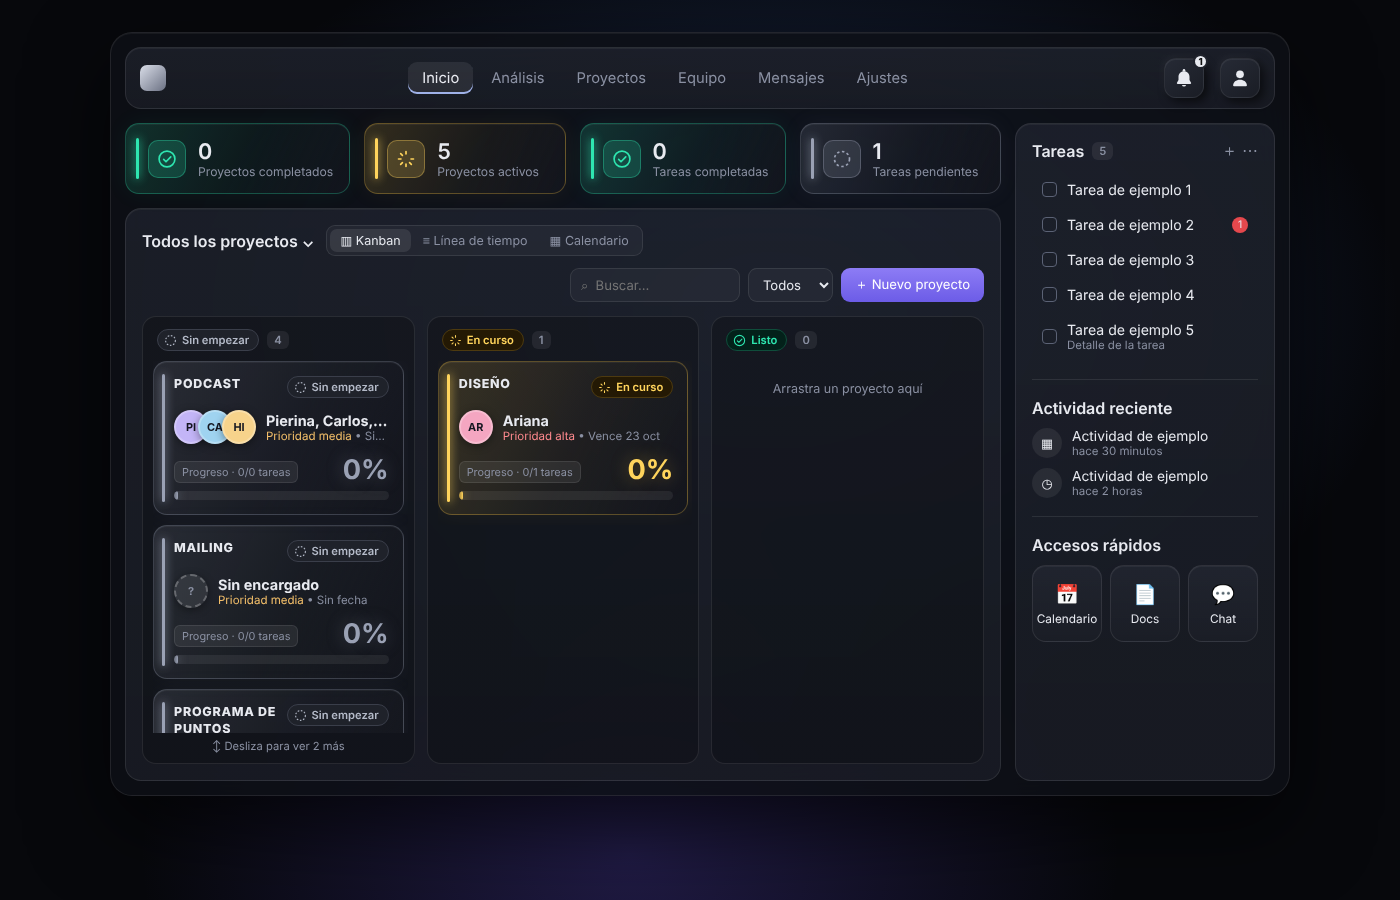
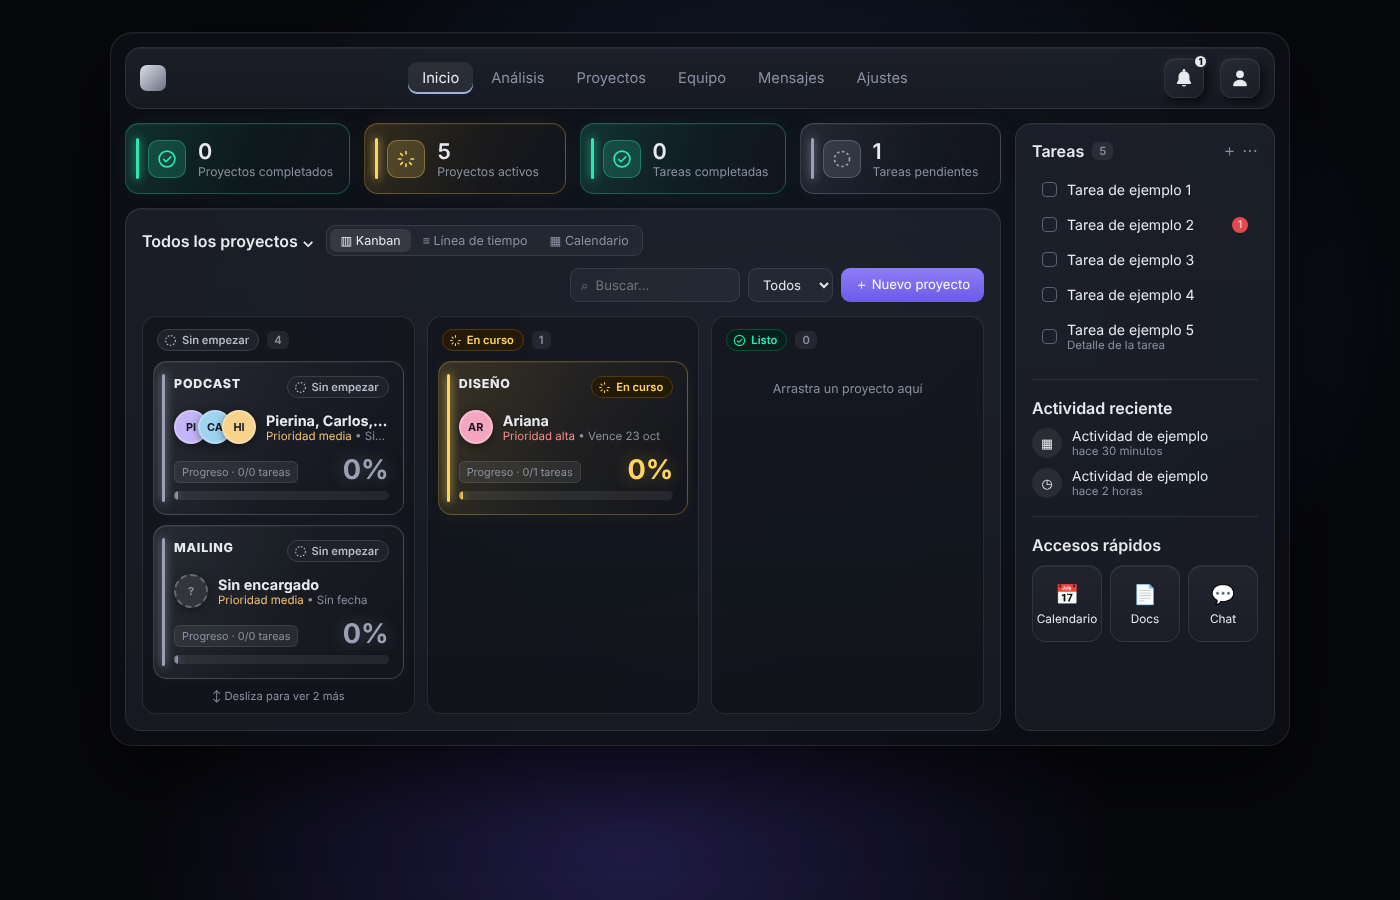
Panel: ajustar alto de columnas a 2 tarjetas
Claude-Session: https://claude.ai/code/session_01L8QtHgV8HSYntBJ1ppQiSV

Changed region(s): [[0.0921, 0.7467, 0.2764, 0.8711], [0.7371, 0.8089, 0.9214, 0.8711]]

diff --git a/borradores/panel.html b/borradores/panel.html
@@ -160,7 +160,7 @@
   .kpi .kpi-ico { --c: var(--acento); }
   .kpi-ico svg { width: 20px; height: 20px; }
   /* Solo 2 proyectos a la vista por columna; el resto con la rueda del ratón */
-  .col-lista { max-height: 372px; overflow-y: auto; padding-right: 4px; margin-right: -4px; scrollbar-width: thin; scrollbar-color: rgba(255,255,255,.18) transparent; }
+  .col-lista { max-height: 322px; overflow-y: auto; padding-right: 4px; margin-right: -4px; scrollbar-width: thin; scrollbar-color: rgba(255,255,255,.18) transparent; }
   .col-lista::-webkit-scrollbar { width: 6px; } .col-lista::-webkit-scrollbar-thumb { background: rgba(255,255,255,.18); border-radius: 6px; }
   .columna { min-height: 0 !important; }
   /* Tarjeta de proyecto estilo "lead card" */
